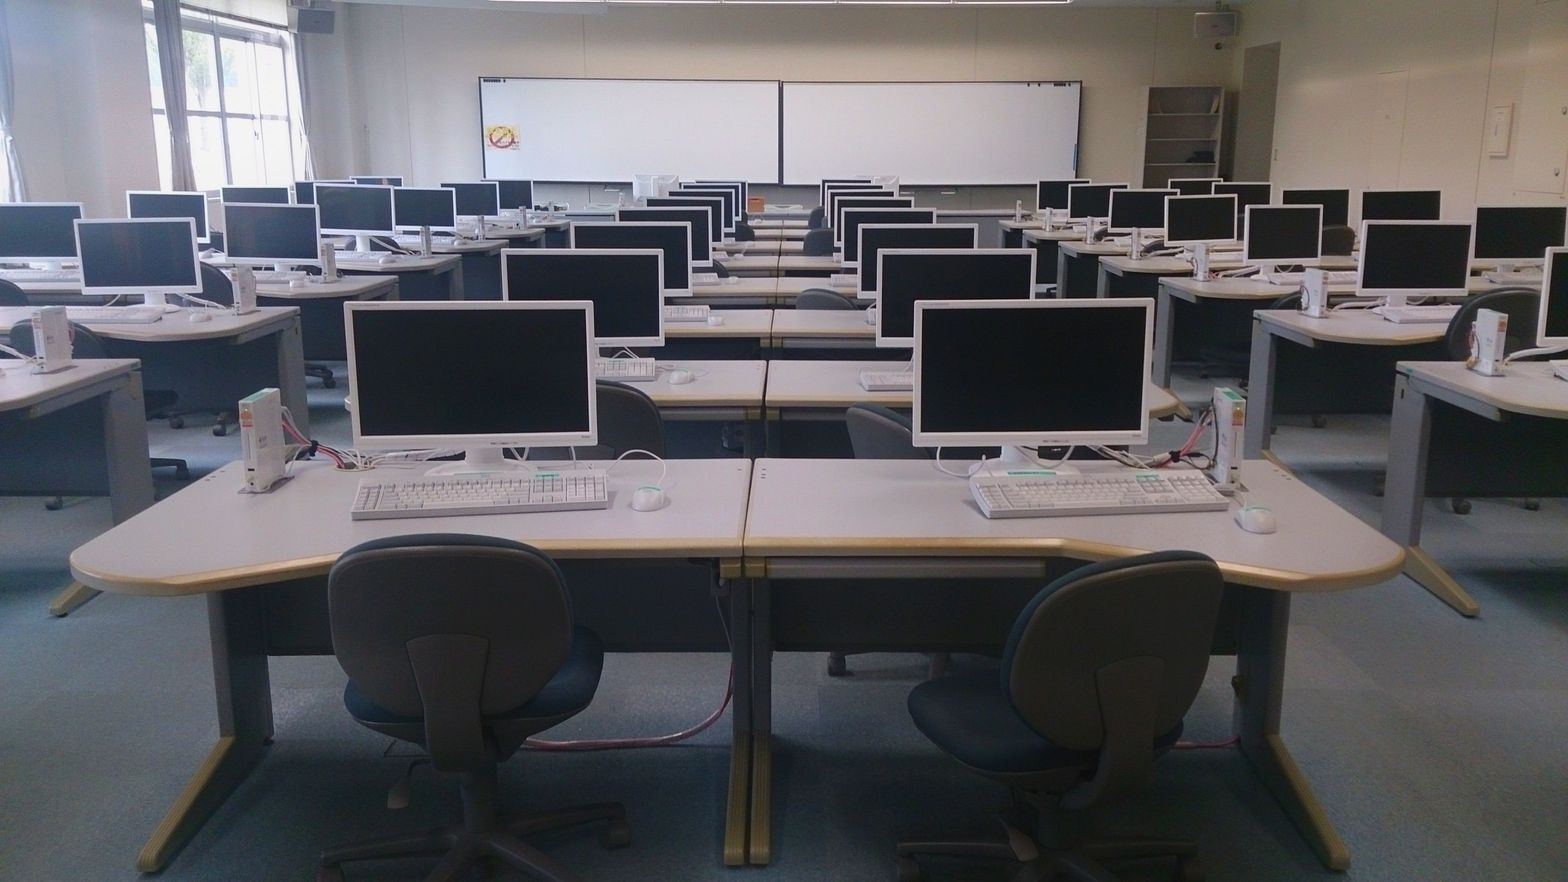
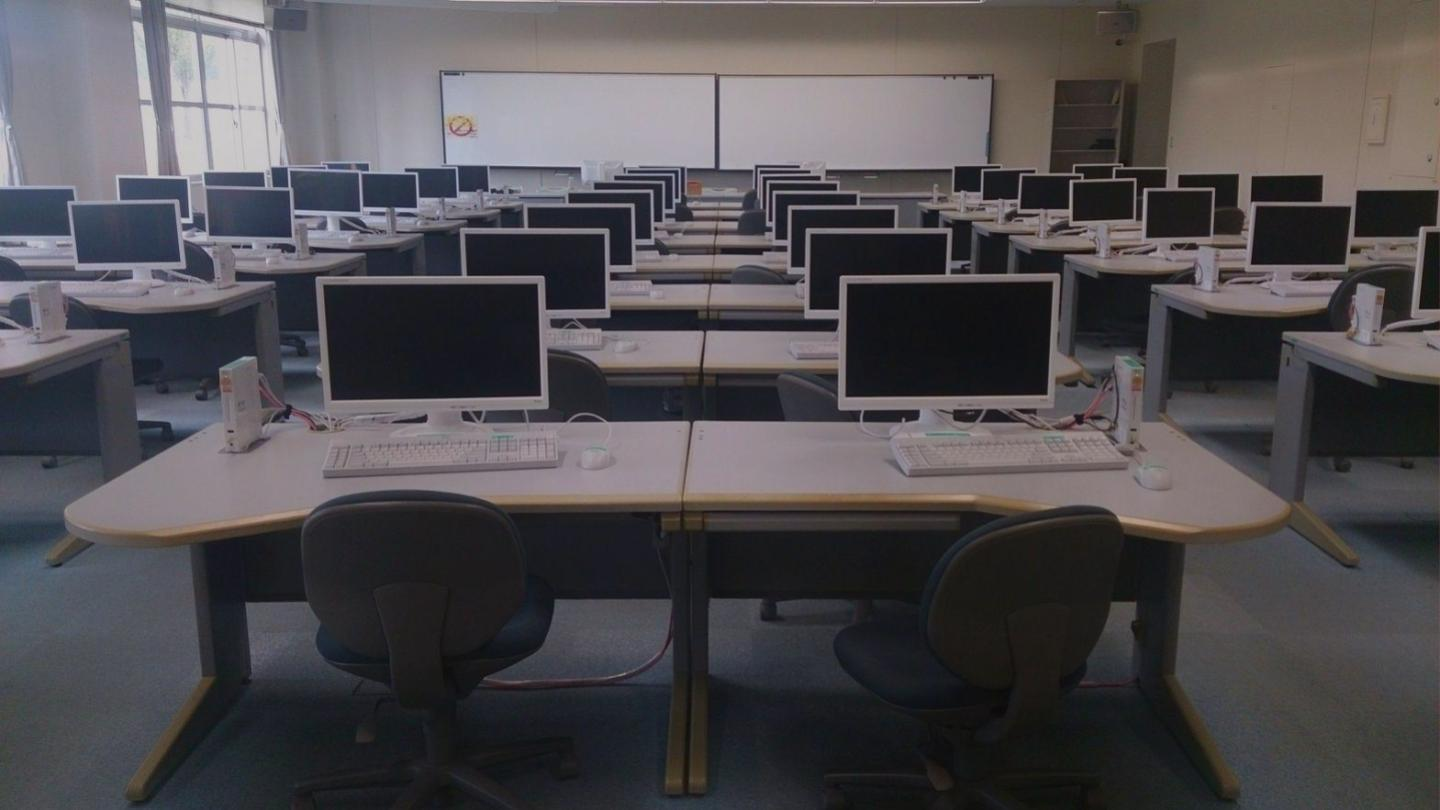
decreased brightness and size of bckgrnd image, added comments to resource page js

Changed region(s): [[0.0, 0.0, 1.0, 0.679], [0.0, 0.679, 0.0312, 0.7407]]

diff --git a/js/resources_page.js b/js/resources_page.js
@@ -4,6 +4,20 @@
     relevant resources relevant to the chosen category.
 */
 
+/*
+    When the user clicks on a category of resources, the page will loop through
+    all resource cards. As it loops through
+    each resource cards, it will loop through each of the category tags, in
+    search of the specified category. If that specified category exists for a
+    resource card, then that resource card is kept visible. However, if the
+    resource card's category tags do not contain the specified category,
+    then that resource card is kept hidden.
+
+    This is how resources of specific categories become visible while the
+    rest are hidden.
+
+*/
+
 //gets all potential categories
 var category_links= document.getElementsByClassName("category-link");
 //gets all resource cards
